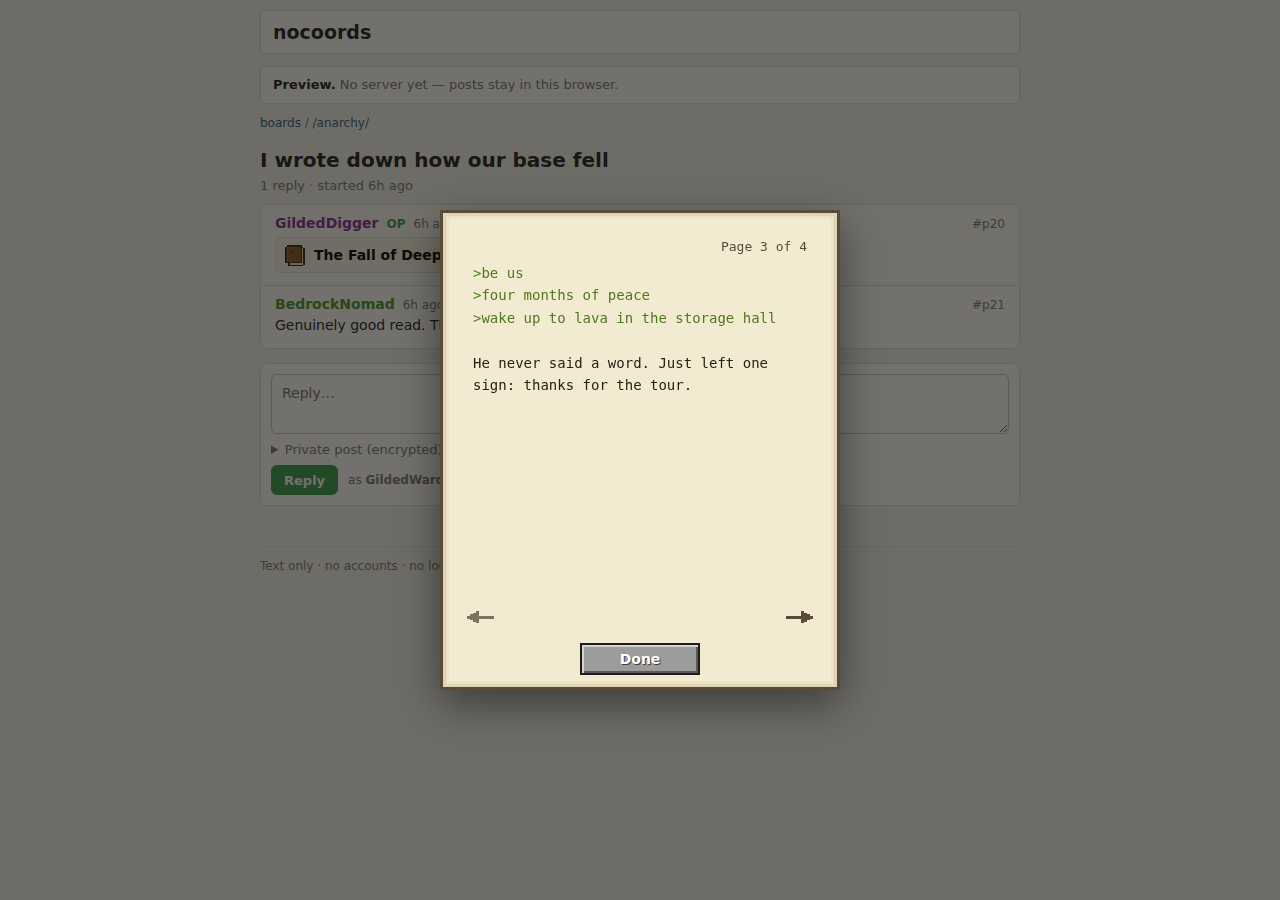
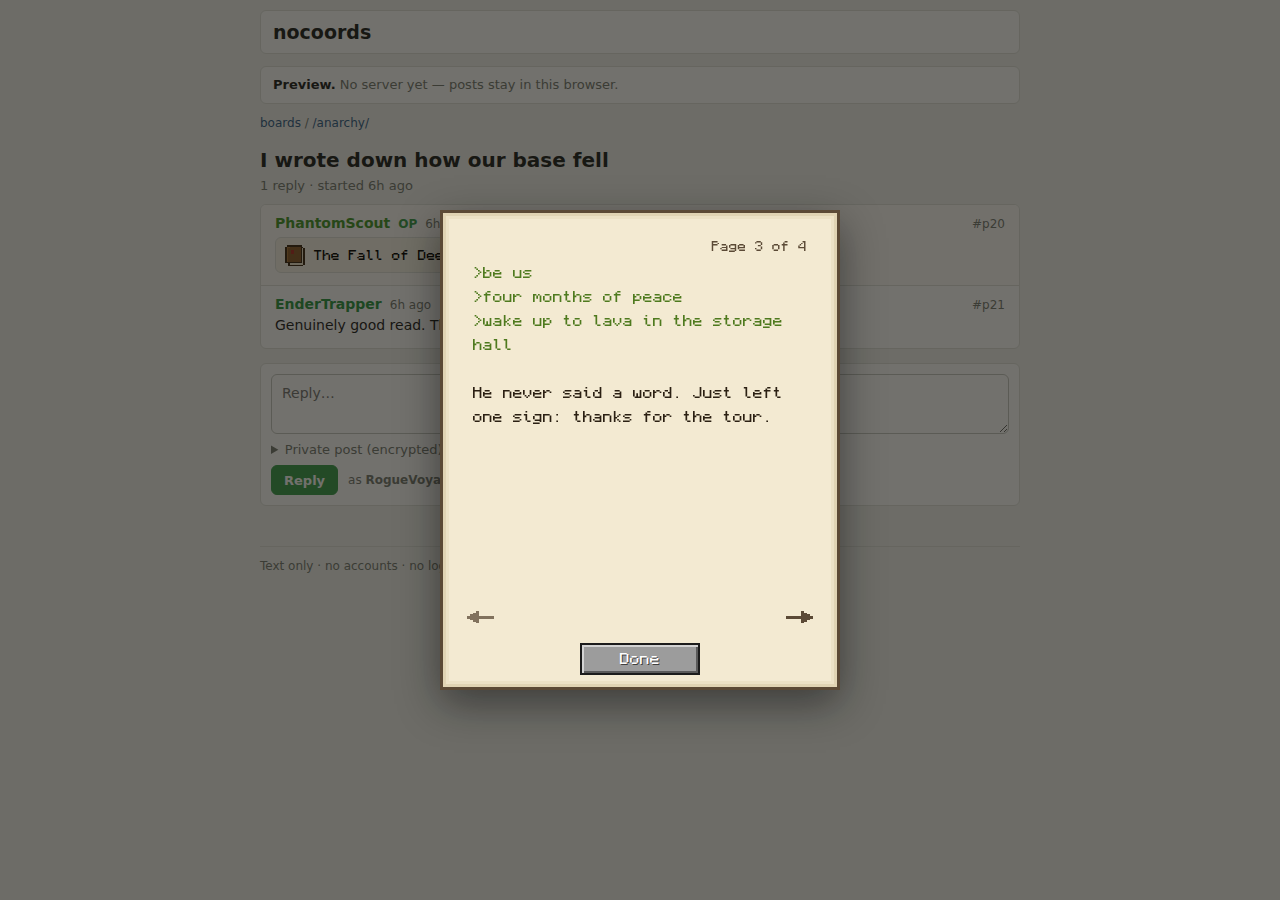
Use Monocraft pixel font in the book reader
Ships Monocraft (a Minecraft-style pixel font by Idrees Hassan, SIL
Open Font License 1.1) as a self-hosted woff2 with its license file,
keeping the no-external-requests rule. Applied to the book reader only:
page text, page counter, Done button, and the inline book title. The
rest of the site keeps the system font stack.

Mojang's own game textures and font files are deliberately not used —
game assets are copyrighted and redistributing them risks a DMCA
takedown of the repository and the site.

Claude-Session: https://claude.ai/code/session_01BMXtbgatWDFbBsJchyQoL7

diff --git a/forum/forum.css b/forum/forum.css
@@ -390,6 +390,20 @@ p {
 
 /* ---------- /book posts ---------- */
 
+/*
+ * Monocraft — a Minecraft-style pixel font by Idrees Hassan, SIL Open Font
+ * License 1.1 (see fonts/LICENSE-Monocraft.txt). Served from this origin,
+ * so the no-external-requests rule still holds. Used only inside the book
+ * reader; the rest of the site keeps the system stack.
+ */
+@font-face {
+  font-family: "Monocraft";
+  src: url("fonts/Monocraft.woff2") format("woff2");
+  font-weight: 400;
+  font-style: normal;
+  font-display: swap;
+}
+
 .book-inline {
   display: inline-flex;
   align-items: center;
@@ -416,8 +430,8 @@ p {
 }
 
 .book-inline-title {
-  font-weight: 600;
-  font-size: 14px;
+  font-family: "Monocraft", var(--mono);
+  font-size: 13px;
 }
 
 .book-inline-pages {
@@ -452,7 +466,7 @@ p {
 
 .book-counter {
   text-align: right;
-  font-family: var(--mono);
+  font-family: "Monocraft", var(--mono);
   font-size: 13px;
   color: #5b4a36;
 }
@@ -462,8 +476,8 @@ p {
   min-height: 330px;
   max-height: 60vh;
   overflow-y: auto;
-  font-family: var(--mono);
-  font-size: 14px;
+  font-family: "Monocraft", var(--mono);
+  font-size: 15px;
   line-height: 1.6;
   color: #2b2013;
   white-space: pre-wrap;
@@ -532,9 +546,8 @@ p {
     inset 2px 2px 0 #d3d3d3,
     inset -2px -2px 0 #5a5a5a;
   color: #ffffff;
-  font: inherit;
-  font-size: 14px;
-  font-weight: 700;
+  font-family: "Monocraft", var(--mono);
+  font-size: 15px;
   text-shadow: 1px 1px 0 #3f3f3f;
   cursor: pointer;
 }
